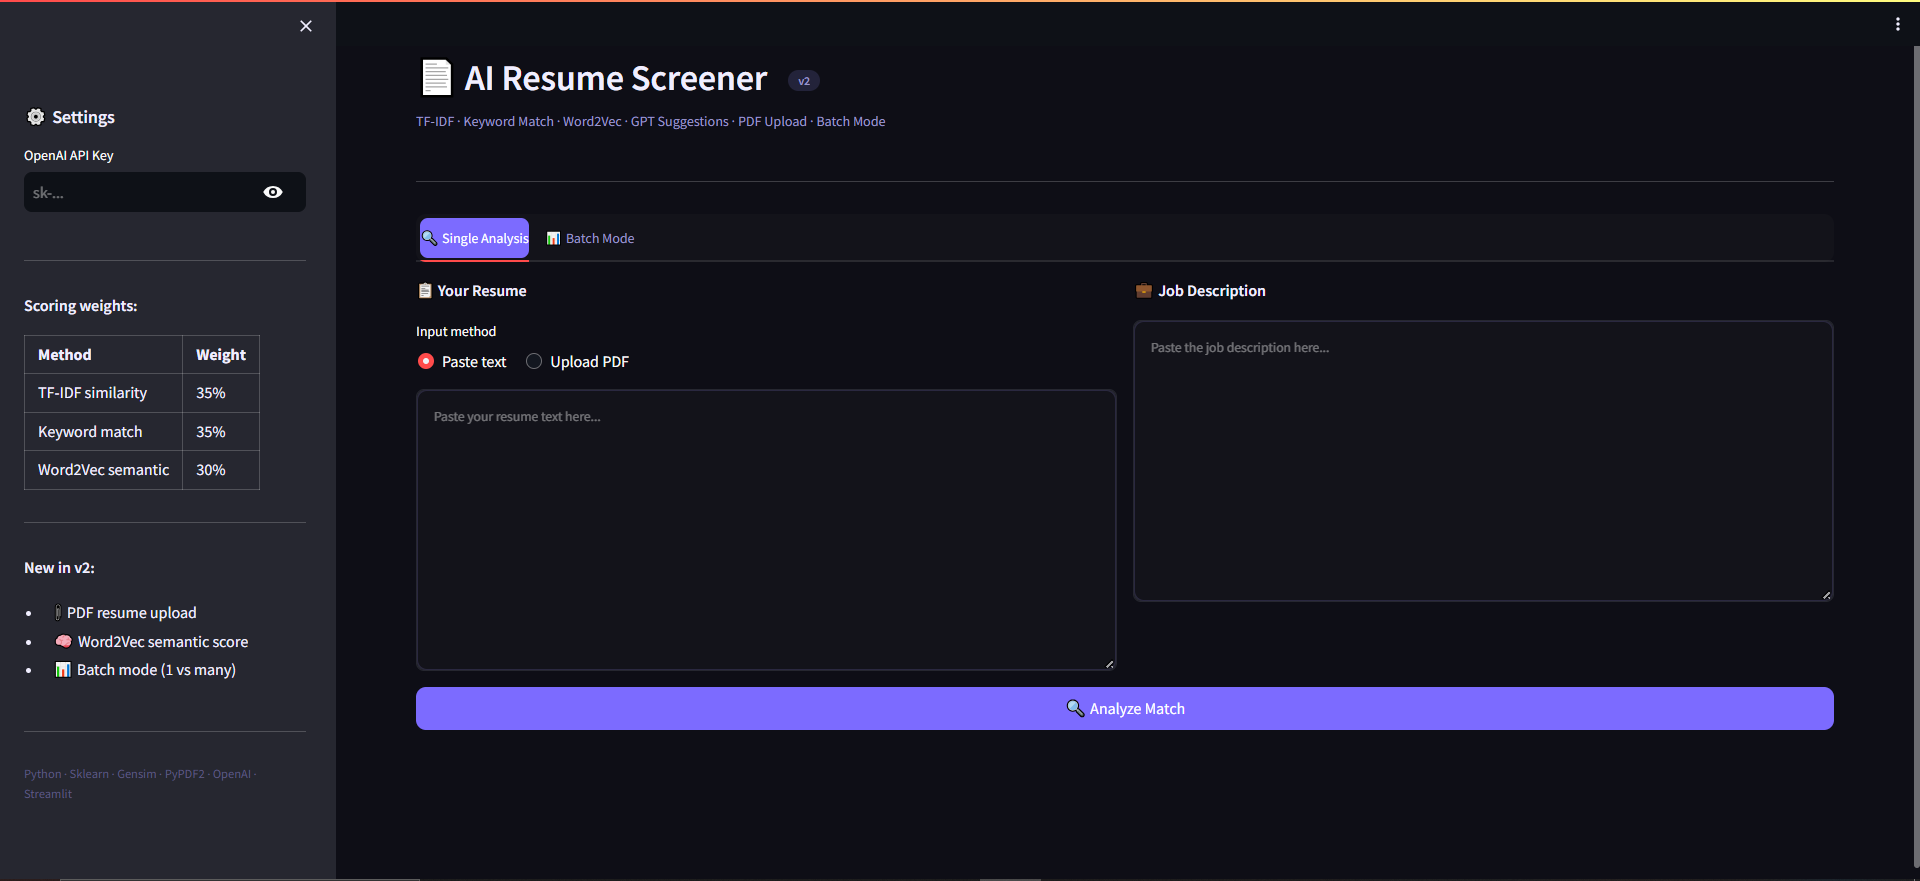
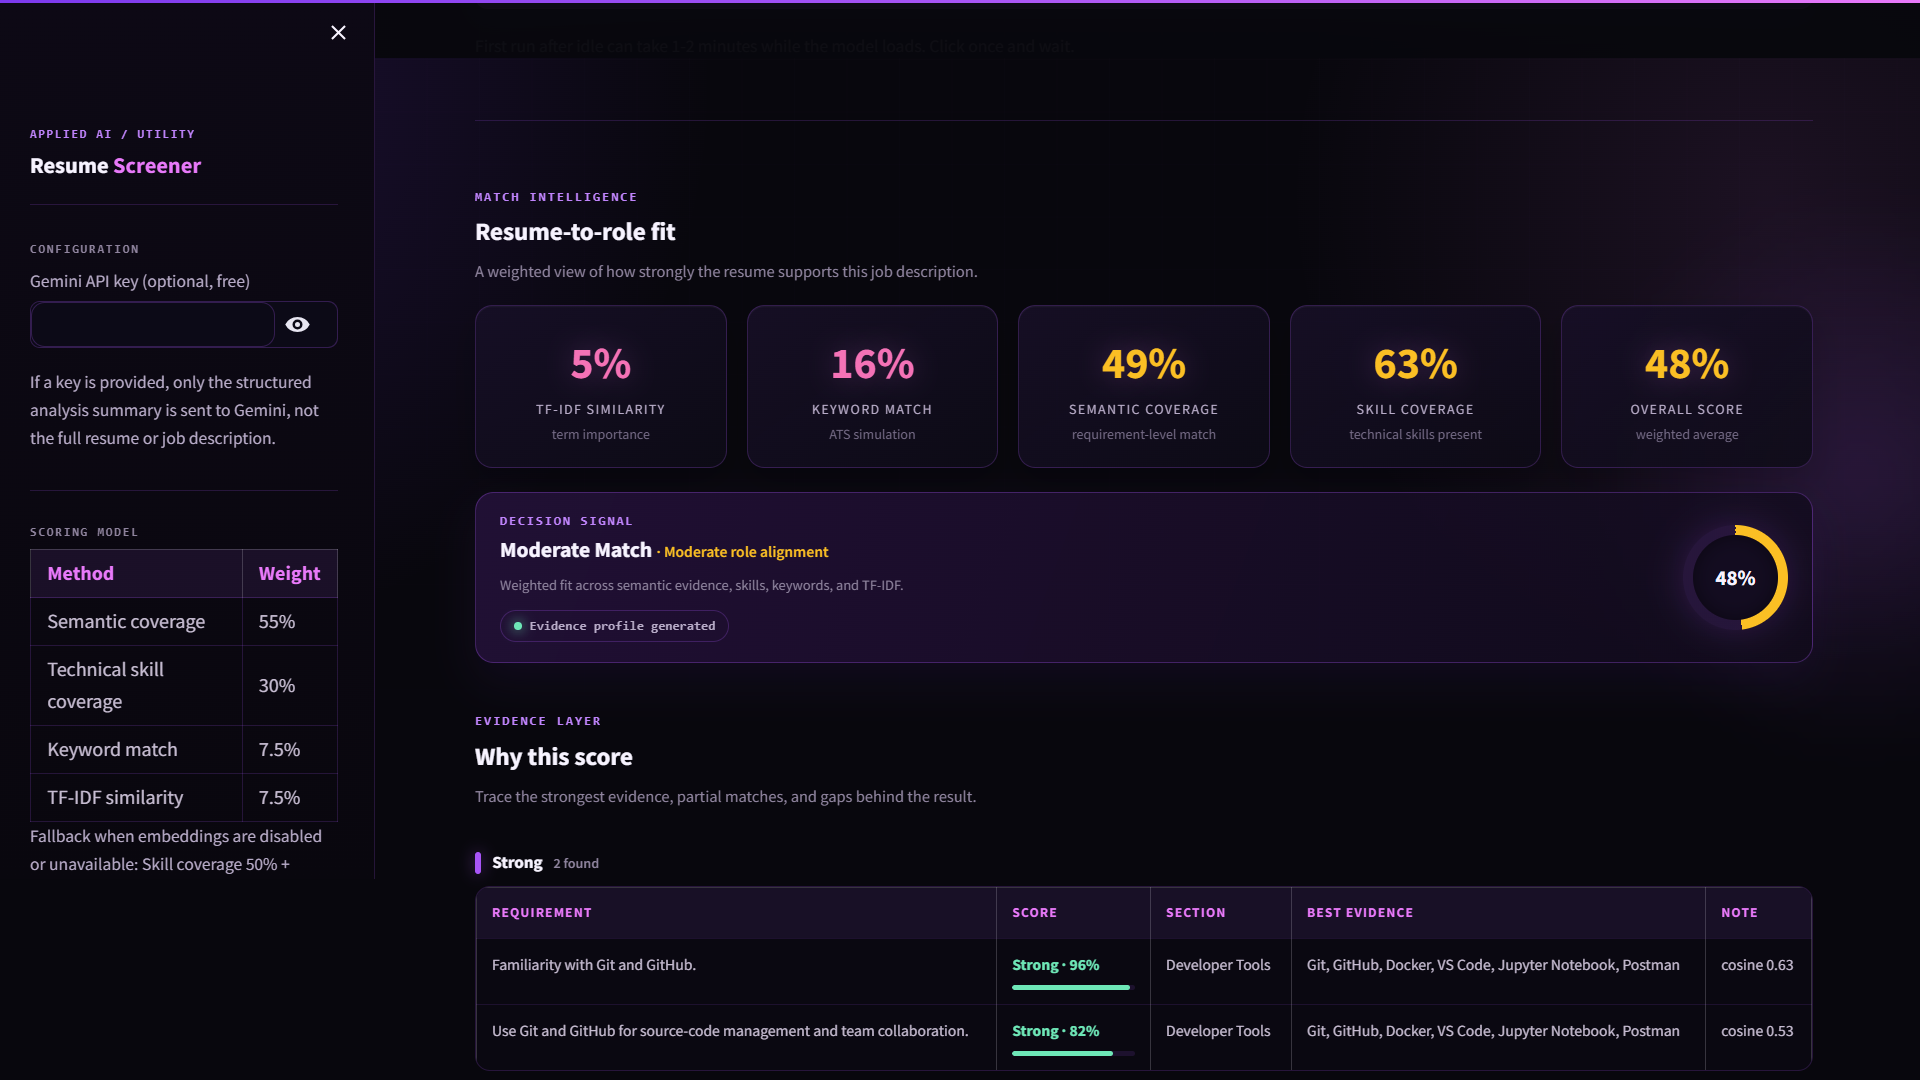
docs(portfolio): update Resume Screener card for v2 UI

diff --git a/index.html b/index.html
@@ -2009,19 +2009,19 @@ Open to Applied ML / Computer Vision / AI Engineer roles
             </div>
           </div>
           <div class="project-preview image-preview">
-            <img src="assets/resume-screener-dashboard.png" alt="AI Resume Screener dashboard showing resume and job description input panels, weighted scoring methods, and analysis controls in dark mode" width="1920" height="881" loading="lazy" decoding="async" />
+            <img src="assets/resume-screener-dashboard.png" alt="AI Resume Screener dashboard with animated score tiles, a decision ring, and requirement evidence tables" width="1920" height="881" loading="lazy" decoding="async" />
             <span class="project-preview-caption">Live dashboard preview</span>
           </div>
           <div class="project-body">
             <div class="project-badge">🟢 Live on Render</div>
             <h3 class="project-name">Resume Screener</h3>
-            <p class="project-desc">Local semantic resume ↔ job-description matcher with requirement evidence, skill-gap analysis, optional Gemini suggestions, and batch workflows.</p>
+            <p class="project-desc">Deployed resume ↔ job-description matcher with explainable requirement evidence, skill-gap analysis, optional Gemini suggestions, and three ranking modes.</p>
             <ul class="project-highlights">
-              <li>FastEmbed/ONNX semantic embeddings combined with TF-IDF, keyword overlap, and technical skill coverage</li>
-              <li>Validated text-based PDF extraction with pypdf, upload-size limits, and page-count limits</li>
-              <li>Requirement-level evidence tables classify strong, partial, and gap matches with rationale</li>
-              <li>Streamlit + Plotly dashboard supports single analysis, 2–6 job batch ranking, and bulk comparison of up to 10 resumes with protected CSV export</li>
-              <li>Memory-aware fallback scoring keeps the Render deployment resilient when local embeddings are unavailable; optional Gemini suggestions add structured improvement guidance</li>
+              <li>55% semantic FastEmbed/ONNX MiniLM, 30% technical skill coverage, 7.5% keyword, and 7.5% TF-IDF scoring</li>
+              <li>Strong, Partial, and Gap evidence tables show the matched resume text for each requirement, with rule-based suggestions and ATS tips</li>
+              <li>Single Analysis, Batch Mode for 2–6 jobs, and Bulk Resumes for up to 10 PDFs with ranked leaderboard and formula-safe CSV export</li>
+              <li>A 192 MB memory guard falls back to skill/keyword/TF-IDF scoring for the Render 512 MB free tier; optional Gemini suggestions remain available</li>
+              <li>Dark purple-accent UI with animated score ring and tiles, evidence score bars, scanning spinner, and cleaned JD bullet glyphs; 83 passing tests plus GitHub Actions CI</li>
             </ul>
             <div class="project-actions">
               <a href="https://ai-resume-screener-w6h3.onrender.com" target="_blank" rel="noopener noreferrer" class="project-action" aria-label="Open live demo for Resume Screener">🟢 Live Demo</a>
@@ -2032,9 +2032,9 @@ Open to Applied ML / Computer Vision / AI Engineer roles
               <summary>Read technical case study</summary>
               <div class="project-case-grid">
                 <div class="project-case-point"><strong>Problem</strong><span>Recruiters and applicants need a faster way to compare resume content with a job description and identify meaningful gaps.</span></div>
-                <div class="project-case-point"><strong>Approach</strong><span>Combines semantic embeddings, TF-IDF, keyword overlap, and technical skill coverage into a weighted matching workflow with requirement filtering, PDF extraction, and dashboard analytics.</span></div>
-                <div class="project-case-point"><strong>AI layer</strong><span>Rule-based suggestions work by default; an optional Gemini integration can enhance the structured advice after the matching signals and evidence gaps are calculated.</span></div>
-                <div class="project-case-point"><strong>Interview focus</strong><span>Similarity tradeoffs, feature weighting, PDF parsing failures, evaluation design, prompt reliability, and explainable recommendations.</span></div>
+                <div class="project-case-point"><strong>Approach</strong><span>Combines semantic requirement coverage, technical skill coverage, keyword overlap, and TF-IDF into an explainable weighted workflow with PDF extraction and evidence tables. Batch ranking uses unrounded overall score, then skill coverage, then semantic score.</span></div>
+                <div class="project-case-point"><strong>Model strategy</strong><span>FastEmbed's ONNX MiniLM path is warmed before caching and reloads/retries once after a cold-start failure. A 192 MB guard switches to 50% skill, 25% keyword, and 25% TF-IDF fallback scoring when embeddings are unsafe on Render.</span></div>
+                <div class="project-case-point"><strong>Interview focus</strong><span>Explainable evidence, memory-constrained deployment, cold-start recovery, tie-break ranking, PDF parsing, CSV formula injection, and optional Gemini reliability.</span></div>
               </div>
             </details>
           </div>
@@ -2047,7 +2047,6 @@ Open to Applied ML / Computer Vision / AI Engineer roles
             <span class="tech-tag">pandas</span>
             <span class="tech-tag">Streamlit</span>
             <span class="tech-tag">Plotly</span>
-            <span class="tech-tag">requests</span>
             <span class="tech-tag">Gemini optional</span>
             <span class="tech-tag">pytest</span>
             <span class="tech-tag">Render</span>
